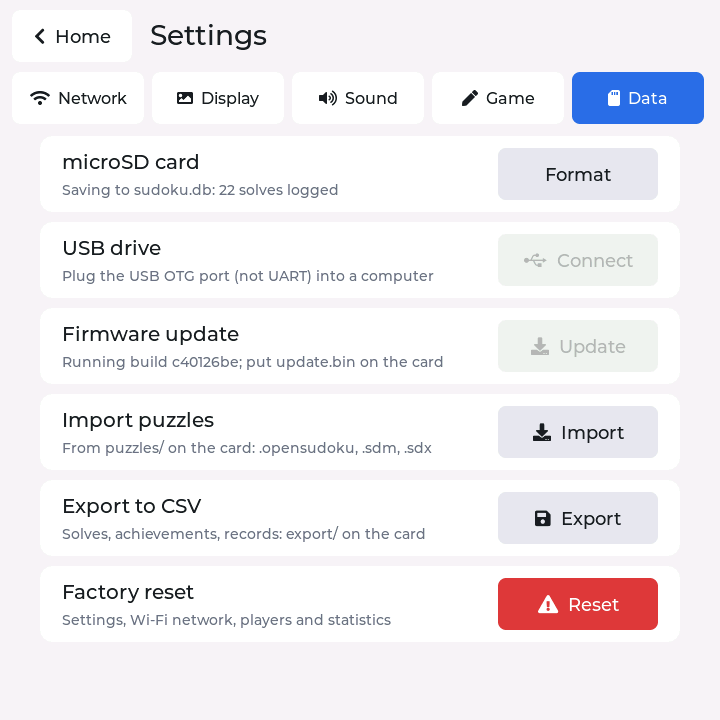
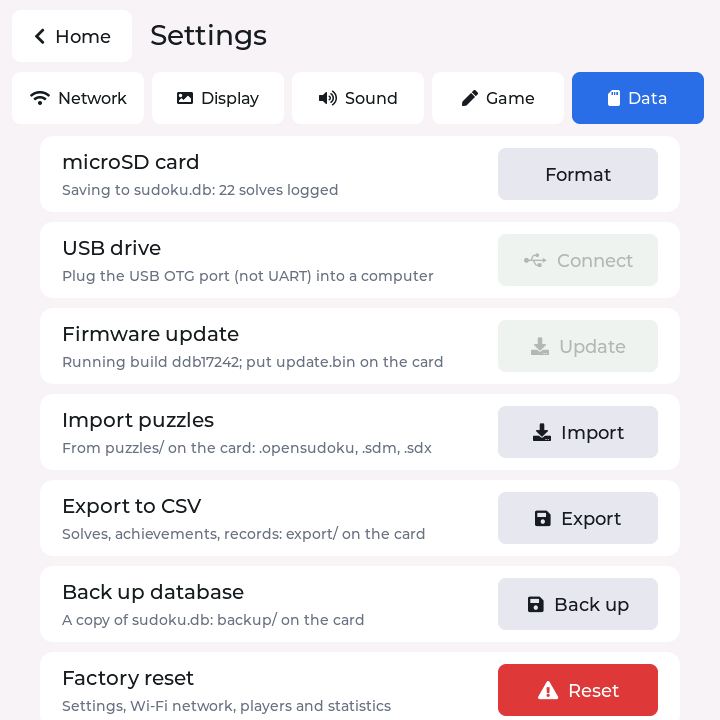
add db backup

diff --git a/src/stats_db.c b/src/stats_db.c
@@ -47,7 +47,7 @@ typedef enum {
     CMD_PRANK, CMD_EXPORT, CMD_WEEK, CMD_PLAYER_COLOR, CMD_PLAYER_AVATAR, CMD_IMPORT, CMD_IMPORT_FILE, CMD_LIST_IMPORTS, CMD_SOLVED_IN, CMD_GEN_SOURCE,
     CMD_LEARNED, CMD_INSIGHTS, CMD_WEEKSUM, CMD_BM_GET, CMD_BM_SET, CMD_BM_LIST, CMD_SEEN_GET, CMD_SEEN_SET,
     CMD_ATTACK, CMD_ATTACK_BOARD, CMD_SAVED_LIST, CMD_SAVED_ADD, CMD_SAVED_REMOVE, CMD_SOLVED_LIST, CMD_SAVED_EXPORT,
-    CMD_COLL_DELETE,
+    CMD_COLL_DELETE, CMD_BACKUP,
 } cmd_type_t;
 
 /* CMD_GAME_SPILL: a game whose last save was still waiting when another game
@@ -2964,6 +2964,43 @@ static void do_export(void)
     post_message(msg);
 }
 
+/* A consistent copy of sudoku.db as backup/sudoku_<unix time>.db (VACUUM INTO:
+ * one transaction, so pending writes are either all in it or not at all; it
+ * is compacted too). Without the clock (no Wi-Fi yet) the time is small and
+ * may repeat after a restart: a _2, _3, ... suffix keeps an older file. */
+#define BACKUP_DIR BSP_SD_MOUNT_POINT "/backup"
+
+static void do_backup(void)
+{
+    if (!s_db) return;
+    mkdir(BACKUP_DIR, 0775);                        /* fine if it's there */
+    long long ts = (long long)time(NULL);
+    char path[96];
+    struct stat st;
+    snprintf(path, sizeof(path), BACKUP_DIR "/sudoku_%lld.db", ts);
+    for (int n = 2; stat(path, &st) == 0 && n < 100; n++) {
+        snprintf(path, sizeof(path), BACKUP_DIR "/sudoku_%lld_%d.db", ts, n);
+    }
+    char msg[128];
+    sqlite3_stmt *q = NULL;
+    int rc = sqlite3_prepare_v2(s_db, "VACUUM INTO ?", -1, &q, NULL);
+    if (rc == SQLITE_OK) {
+        sqlite3_bind_text(q, 1, path, -1, SQLITE_STATIC);
+        rc = sqlite3_step(q);
+    }
+    sqlite3_finalize(q);
+    const char *name = path + strlen(BSP_SD_MOUNT_POINT "/");
+    if (rc == SQLITE_DONE && stat(path, &st) == 0) {
+        snprintf(msg, sizeof(msg), "Backed up to %s (%ld KB) on the card.", name, (long)((st.st_size + 1023) / 1024));
+    } else {
+        printf("stats_db: backup: %s\n", sqlite3_errmsg(s_db));
+        unlink(path);                               /* no half-written copy left behind */
+        snprintf(msg, sizeof(msg), "Backup failed: couldn't write %s on the card.", name);
+    }
+    printf("stats_db: %s\n", msg);
+    post_message(msg);
+}
+
 /* a page of recorded solves (newest first), for the Gameplays screen */
 static void do_plays(int offset)
 {
@@ -3217,6 +3254,9 @@ static void worker(void *arg)
             break;
         case CMD_EXPORT:
             do_export();
+            break;
+        case CMD_BACKUP:
+            do_backup();
             break;
         case CMD_WEEK:
             do_week(c.text);
@@ -3873,6 +3913,12 @@ void stats_db_export_csv(void)
 {
     cmd_t c = {.type = CMD_EXPORT};
     if (!send(&c)) post_message("Export: no database.");
+}
+
+void stats_db_backup(void)
+{
+    cmd_t c = {.type = CMD_BACKUP};
+    if (!send(&c)) post_message("Backup: no database.");
 }
 
 void stats_db_query_records(void)

diff --git a/src/ui_settings.c b/src/ui_settings.c
@@ -28,6 +28,7 @@ static void fw_update_cb(lv_event_t *e);
 static void timer_sw_cb(lv_event_t *e);
 static void import_cb(lv_event_t *e);
 static void export_cb(lv_event_t *e);
+static void backup_cb(lv_event_t *e);
 static void accent_dd_cb(lv_event_t *e);
 static void assist_dd_cb(lv_event_t *e);
 static lv_obj_t *settings_dropdown(lv_obj_t *row, const char *options, uint32_t sel, int width, lv_event_cb_t cb);
@@ -291,6 +292,16 @@ static void export_cb(lv_event_t *e)
     }
     sudoku_ui_notice("Exporting...", 1500);
     stats_db_export_csv();                          /* the result comes back as a message */
+}
+
+static void backup_cb(lv_event_t *e)
+{
+    if (!stats_db_ready()) {
+        sudoku_ui_notice("Backup needs sudoku.db on a microSD card.", 3000);
+        return;
+    }
+    sudoku_ui_notice("Backing up...", 1500);
+    stats_db_backup();                              /* the result comes back as a message */
 }
 
 static void accent_dd_cb(lv_event_t *e)
@@ -1047,6 +1058,11 @@ void build_settings(void)
     lv_obj_t *ex = make_btn(r, 0, 0, 160, 52, LV_SYMBOL_SAVE "  Export", &lv_font_montserrat_18, export_cb, NULL);
     lv_obj_set_style_bg_color(ex, C_CARD2, 0);
     lv_obj_align(ex, LV_ALIGN_RIGHT_MID, 0, 0);
+
+    r = settings_row(col, "Back up database", "A copy of sudoku.db: backup/ on the card");
+    lv_obj_t *bk = make_btn(r, 0, 0, 160, 52, LV_SYMBOL_SAVE "  Back up", &lv_font_montserrat_18, backup_cb, NULL);
+    lv_obj_set_style_bg_color(bk, C_CARD2, 0);
+    lv_obj_align(bk, LV_ALIGN_RIGHT_MID, 0, 0);
 
     r = settings_row(col, "Factory reset", "Settings, Wi-Fi network, players and statistics");
     lv_obj_t *fr = make_btn(r, 0, 0, 160, 52, LV_SYMBOL_WARNING "  Reset", &lv_font_montserrat_18,

diff --git a/src/stats_db.h b/src/stats_db.h
@@ -518,6 +518,10 @@ bool stats_db_take_records(stats_records_t *out);
  * message (stats_db_take_message()). */
 void stats_db_export_csv(void);
 
+/* A copy of sudoku.db as backup/sudoku_<unix time>.db on the card (consistent
+ * while in use); the result comes back as a message. */
+void stats_db_backup(void);
+
 void stats_db_query_plays(int offset);
 bool stats_db_take_plays(stats_plays_t *out);
 

diff --git a/docs/data.md b/docs/data.md
@@ -34,7 +34,8 @@ Where the game keeps its data (`sudoku.db` on the microSD card), and the mainten
   SQLite 3.54.1 is built in from the official amalgamation (`src/sqlite/`), with a small file layer for ESP-IDF's FAT filesystem. The board doesn't lock the file, so take the card out (or switch off) before opening the database elsewhere.
 - **Firmware update from the card**: **Settings → Data → Firmware update**. Put the sketch's binary on the card's root as `update.bin`, for example over **USB drive**. In the Arduino IDE, use **Sketch → Export Compiled Binary** and take `esp32p4_sudoku.ino.bin` (not the `.merged.bin`); with arduino-cli it's in the build folder. The row shows the running build and the file's build (the first 8 hex digits of the ELF file's SHA-256, as a crash log prints it), and **Update** is greyed out without a usable file. **Update** asks first, then writes the image into the board's other 12.5 MiB app slot (`ota_0` / `ota_1`) with a progress bar. The whole image is checked (format, chip, SHA-256) before the board is told to start it, so a broken or truncated file changes nothing. Then `update.bin` is renamed `update.done` and the board restarts into the new firmware. The new firmware starts on probation: it is kept once it has run for 15 seconds. If it crashes before then, the next restart goes back to the previous firmware (the bootloader's rollback). A USB upload from the IDE always goes back to the first slot.
 - **USB drive (backup and restore)**: **Settings → USB drive → Connect** lends the microSD card to a computer as a USB mass-storage drive on the board's **USB OTG** port (the other USB-C port, not the UART one). **Connect** is greyed out until a computer is plugged into the OTG port; the hint under it says so. (To notice the computer, the board starts USB at power-on with the drive empty, so before **Connect** the computer shows an empty card reader called "Sudoku SD Card".) Copy `sudoku.db` off to back it up, or put a backup in its place to restore it. While the computer has the card, the board closes `sudoku.db` and shows a full-screen "USB drive" panel, so the two never write the card at once. Eject the drive on the computer, or unplug the USB cable, and the board takes the card back by itself (or tap **Done** once copying has finished); unplugging is noticed after 1.5 s of a quiet bus, which a computer going to sleep also causes; it then reopens `sudoku.db` and loads the settings, player, statistics and game from it. If `sudoku.db` was deleted, a new skeleton is created. Needs Tools → USB Mode = "USB-OTG (TinyUSB)" (the default).
-- **Factory reset**: **Settings → Factory reset** (at the bottom; the Settings list scrolls) puts the settings back to the defaults, forgets the Wi-Fi network and switches Wi-Fi off, erases the board's leftover pre-database data (NVS), and deletes `sudoku.db` (all players, statistics, solve history and games in progress) and makes a new, empty one with a single "Player 1". It asks first. Back up `sudoku.db` over USB beforehand to keep a copy.
+- **Back up the database on the card**: **Settings → Data → Back up database** writes a copy of `sudoku.db` to `backup/sudoku_<unix time>.db` on the card, e.g. `backup/sudoku_1763712345.db` (SQLite `VACUUM INTO`: a consistent, compacted copy taken while the database is in use). A notice shows the file name and size. Without the clock (no Wi-Fi), the time counts from start-up and can repeat after a restart; a `_2`, `_3`, ... suffix then keeps the older file. To restore one, copy it over `sudoku.db` with **USB drive** (or on a computer).
+- **Factory reset**: **Settings → Factory reset** (at the bottom; the Settings list scrolls) puts the settings back to the defaults, forgets the Wi-Fi network and switches Wi-Fi off, erases the board's leftover pre-database data (NVS), and deletes `sudoku.db` (all players, statistics, solve history and games in progress) and makes a new, empty one with a single "Player 1". It asks first. Back up `sudoku.db` beforehand (**Back up database**, or over USB) to keep a copy.
 - **Format microSD card**: **Settings → microSD card → Format** erases the card and gives it a fresh MBR with one primary FAT32 partition spanning the whole card (FatFs `f_mkfs`, cluster size chosen automatically, data area aligned to 4 MiB). It shows the card's name and size in a confirmation dialog first. Formatting erases `sudoku.db` with the statistics and solve history; afterwards the board writes a new, empty `sudoku.db` holding the current settings and the game in progress, and its statistics start from zero.
   - Insert the card before switching the board on. The card shares its SD controller with the Wi-Fi chip, and setting up a card while Wi-Fi runs breaks the Wi-Fi link and restarts the board. So the card is detected at start-up, before Wi-Fi starts, and a card inserted later is only picked up if Wi-Fi hasn't been switched on since start-up.
 - **Settings** (dark mode, sound effects, screen timeout and time zone) are kept in `sudoku.db`; the Wi-Fi network is kept on the board, with the password stored unencrypted in NVS.

diff --git a/docs/features-settings.md b/docs/features-settings.md
@@ -15,7 +15,7 @@ The home screen, Settings and its tabs, how the board looks and sounds, Gibberli
 ## Features
 
 - **Home screen**: the time and date at the top (once Wi-Fi has fetched it), the solved count and big buttons. **Continue** resumes your unfinished game; when there is none it stays in its place, greyed out, with "No game in progress"; with several (see [Unfinished games](features-puzzles.md)) its line says how many more, and it opens a list to pick from. **Players** (at the top, showing who is playing), **Puzzles**, **Daily puzzle**, **Statistics**, **History**, **Gameplays**, **Trophies**, **Time attack**, **Files**, **Settings** and **System** (the system monitor) open those screens. The buttons stand in one column while they fit, then in a grid of two per row; when even the grid doesn't fit (five rows: ten buttons), the menu has pages side by side: swipe left or right, and dots under it show which page is shown (with twelve buttons, **Settings** and **System** are on the second page).
-- **Settings** is split into tabs under its title: **Network** (Wi-Fi, time zone; the tab Settings opens on), **Display** (dark mode, accent colour, brightness, screen off after, lock screen and PIN, screen-saver clock), **Sound** (sound effects, volume, Gibberlink), **Game** (show timer, mistake check) and **Data** (microSD card, USB drive, firmware update, import puzzles, export to CSV, system monitor, factory reset).
+- **Settings** is split into tabs under its title: **Network** (Wi-Fi, time zone; the tab Settings opens on), **Display** (dark mode, accent colour, brightness, screen off after, lock screen and PIN, screen-saver clock), **Sound** (sound effects, volume, Gibberlink), **Game** (show timer, mistake check) and **Data** (microSD card, USB drive, firmware update, import puzzles, export to CSV, back up database, system monitor, factory reset).
 - **Light and dark mode**: switch between colour schemes under **Settings → Dark mode**.
 - **Accent colour**: **Settings → Accent colour** picks Blue (the default), Teal, Green, Purple or Pink for buttons, the selected cell, the same-digit and row/column highlights and your digits, in both schemes.
 - **Colour-blind friendly**: **Settings → Display → Colour-blind friendly** swaps red and green, which look alike to most colour-blind people, for the Okabe-Ito colours: mistakes in vermillion (orange-red), solved puzzles and finished boards in bluish green, the game in progress in yellow-orange. They differ from each other and from the blue of your digits in lightness as well as hue. Both light and dark mode have their own shades.

diff --git a/README.md b/README.md
@@ -25,7 +25,7 @@ Captured from the board over its serial port (see [Screenshots and remote contro
 - **Helpers**: a left-handed layout, pencil marks, Auto notes, digit-first entry, cell colours, undo/redo, mistake check, step-by-step hints (up to X-Wing, Swordfish and XY-Wing, or nudges only), a Learn mode for ten techniques and four variant rules, a tour of the game screen, starred puzzles and a 10-minute time attack.
 - **Players, statistics and trophies**: per-player progress and emoji avatars, a history calendar, charts, achievements, daily and weekly leaderboards.
 - **Replays**: every solve can be played back, or exported as an H.264 MP4 video.
-- **Data on the microSD card** in a SQLite database (`sudoku.db`), with CSV export, puzzle import, a file manager with a Recycle bin (the database protected), a picture/video viewer and a puzzle file preview, screenshots, USB drive mode and firmware updates from the card.
+- **Data on the microSD card** in a SQLite database (`sudoku.db`), with CSV export, one-tap database backups, puzzle import, a file manager with a Recycle bin (the database protected), a picture/video viewer and a puzzle file preview, screenshots, USB drive mode and firmware updates from the card.
 - **Wi-Fi clock**, light and dark mode, a night mode, accent colours, colour-blind friendly colours, lock screen, screen-saver clock, synthesised sound effects, remote control by sound (Gibberlink / ggwave) and a system monitor with graphs of the last hour.
 
 ## Documentation
@@ -36,7 +36,7 @@ Also online, as web pages: **https://edipermadi.github.io/esp32p4_sudoku/docs/**
 |------|--------------|
 | [Features](docs/features.md) | Everything the game does, by topic: puzzles, playing, players & progress, settings & system |
 | [How to play](docs/how-to-play.md) | Which button does what, as a table |
-| [Data & storage](docs/data.md) | `sudoku.db` and its tables, firmware update, USB drive, format, factory reset, saving |
+| [Data & storage](docs/data.md) | `sudoku.db` and its tables, backups, firmware update, USB drive, format, factory reset, saving |
 | [Building and releases](docs/building.md) | Arduino settings, `arduino-cli`, GitHub Actions releases, the web flasher |
 | [Development](docs/development.md) | Regenerating puzzles and fonts, colours, sounds, source layout |
 | [Screenshots and remote control](docs/devctl.md) | `tools/devctl.py`: screenshots, simulated touches, files on the card over serial |
